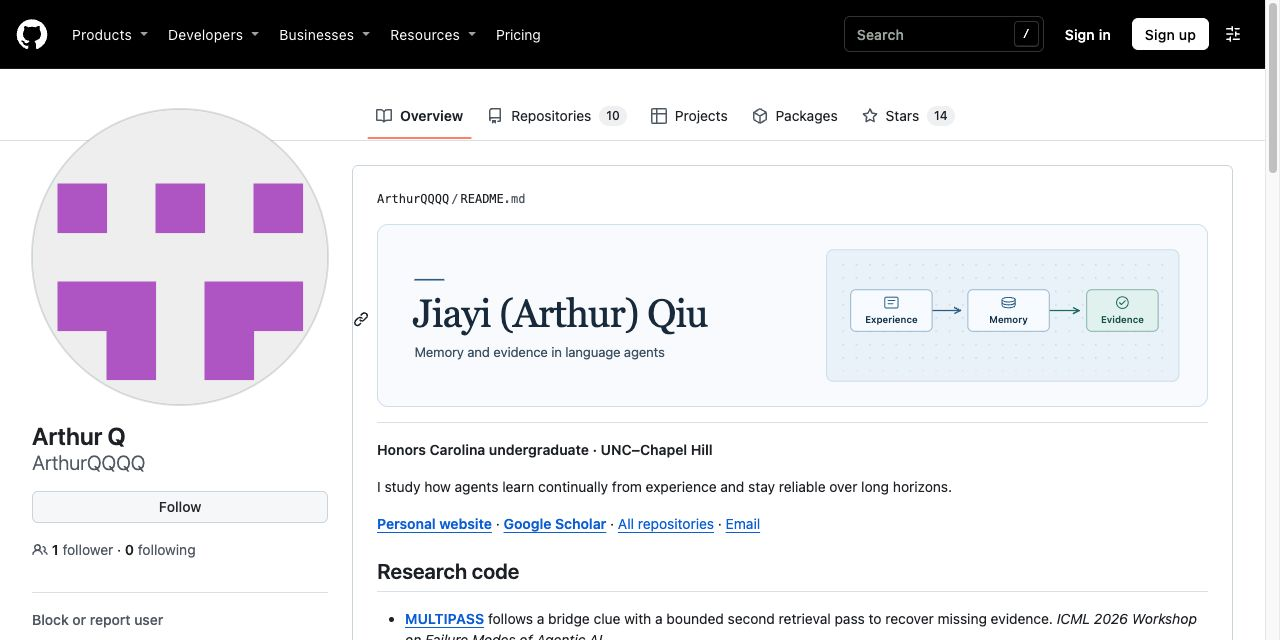
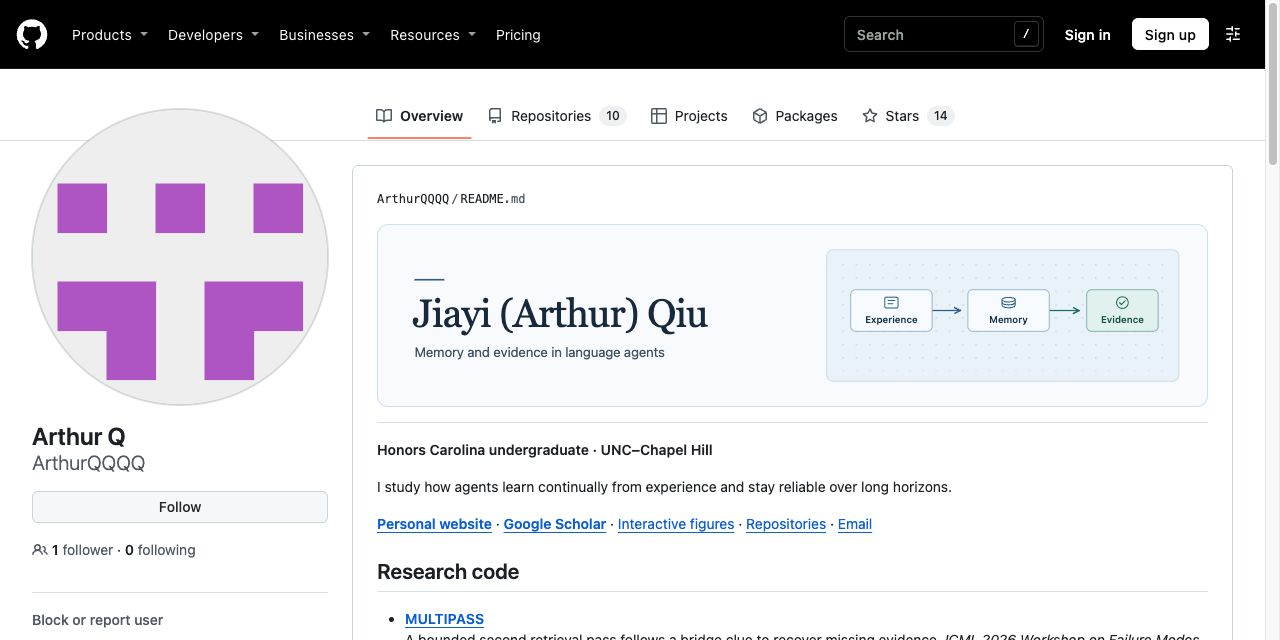
Add a zoomable viewer for the real profile previews

Changed region(s): [[0.3125, 0.9375, 0.9375, 1.0], [0.4688, 0.8125, 0.6875, 0.8438]]

diff --git a/styles.css b/styles.css
@@ -134,10 +134,13 @@ button { font: inherit; cursor: pointer; }
   border-radius: 12px;
   background: var(--surface);
   box-shadow: 0 2px 4px rgb(23 46 67 / .045);
-  transition: border-color .18s ease;
+  transition: border-color .18s ease, box-shadow .18s ease, transform .18s ease;
 }
 .profile-card--scholar { --card-head: #eaf4fb; }
-.profile-card:hover, .profile-card:focus-within { border-color: var(--strong-line); }
+.profile-card:hover, .profile-card:focus-within {
+  border-color: var(--strong-line);
+  box-shadow: 0 7px 22px rgb(23 46 67 / .09);
+}
 .profile-link { display: block; border-radius: inherit; color: var(--ink); text-decoration: none; }
 .profile-card-header {
   display: flex;
@@ -187,6 +190,68 @@ button { font: inherit; cursor: pointer; }
   object-fit: contain;
   object-position: top center;
 }
+.profile-card:has(.profile-tools:not([hidden])) .profile-preview { border-radius: 0; }
+.profile-tools {
+  display: flex;
+  justify-content: flex-end;
+  padding: 4px 12px;
+  border-top: 1px solid var(--line);
+}
+.profile-enlarge, .preview-control {
+  min-height: 36px;
+  padding: 4px 9px;
+  border: 1px solid transparent;
+  border-radius: 6px;
+  color: var(--blue);
+  background: transparent;
+  font-size: 14px;
+  font-weight: 580;
+}
+.profile-enlarge:hover, .preview-control:hover {
+  border-color: var(--strong-line);
+  background: var(--raised);
+}
+
+.preview-dialog {
+  width: min(68rem, calc(100% - 28px));
+  max-width: none;
+  max-height: calc(100% - 28px);
+  margin: auto;
+  padding: 0;
+  border: 1px solid var(--strong-line);
+  border-radius: 12px;
+  color: var(--ink);
+  background: var(--surface);
+  box-shadow: 0 16px 50px rgb(23 46 67 / .25);
+}
+.preview-dialog:not([open]) { display: none; }
+.preview-dialog[open] { display: grid; grid-template-rows: auto minmax(0, 1fr); }
+.preview-dialog::backdrop { background: rgb(17 37 55 / .55); }
+.preview-dialog-header {
+  display: flex;
+  flex-wrap: wrap;
+  align-items: center;
+  justify-content: space-between;
+  gap: 5px 12px;
+  padding: 9px clamp(10px, 2vw, 17px);
+  border-bottom: 1px solid var(--line);
+  background: var(--page);
+}
+.preview-dialog-header h2 { font: 400 clamp(19px, 3vw, 24px)/1.15 var(--font-display); }
+.preview-dialog-actions { display: flex; flex-wrap: wrap; align-items: center; gap: 3px; }
+.preview-dialog-actions form { margin: 0; }
+.preview-control { display: inline-flex; align-items: center; text-decoration: none; }
+.preview-control[aria-pressed="true"] { border-color: var(--strong-line); background: var(--raised); }
+.preview-dialog-media {
+  max-height: 73vh;
+  max-height: 73dvh;
+  overflow: auto;
+  overscroll-behavior: contain;
+  outline-offset: -3px;
+}
+.preview-dialog-media img { display: block; width: 100%; height: auto; }
+.preview-dialog-media.is-actual-size img { width: 1280px; max-width: none; }
+
 .publication-list, .projects-list { margin: 0; padding: 0; list-style: none; }
 
 .section-block { padding-block: 16px 30px; }
@@ -279,10 +344,18 @@ button { font: inherit; cursor: pointer; }
 
 @media (prefers-reduced-motion: no-preference) {
   .hero { animation: hero-enter .35s ease-out both; }
+  .preview-dialog[open] { animation: preview-enter .16s ease-out both; }
   @keyframes hero-enter {
     from { opacity: .55; transform: translateY(5px); }
     to { opacity: 1; transform: translateY(0); }
   }
+  @keyframes preview-enter {
+    from { opacity: 0; transform: translateY(4px) scale(.99); }
+    to { opacity: 1; transform: none; }
+  }
+}
+@media (hover: hover) and (prefers-reduced-motion: no-preference) {
+  .profile-card:hover { transform: translateY(-2px); }
 }
 @media (prefers-reduced-motion: reduce) {
   html { scroll-behavior: auto; }
@@ -307,10 +380,10 @@ button { font: inherit; cursor: pointer; }
   .main-nav a { font-size: 13px; }
 }
 @media (pointer: coarse) {
-  .profile-action, .publication-links a, .social-links a, .diagram-steps button { min-height: 44px; }
+  .profile-action, .publication-links a, .social-links a, .diagram-steps button, .profile-enlarge, .preview-control { min-height: 44px; }
 }
 @media print {
-  .site-header, .site-footer, .diagram-steps, .profile-preview { display: none; }
+  .site-header, .site-footer, .diagram-steps, .profile-preview, .profile-tools, .preview-dialog[open] { display: none; }
   .paper-diagram, .publication, .project-category { break-inside: avoid; }
   .container { width: 100%; }
 }

diff --git a/index.html b/index.html
@@ -7,8 +7,8 @@
   <meta name="description" content="Jiayi (Arthur) Qiu, an Honors Carolina undergraduate studying continual learning and reliable long-horizon agents.">
   <title>Jiayi (Arthur) Qiu</title>
   <link rel="canonical" href="https://arthurqqqq.github.io/">
-  <link rel="stylesheet" href="styles.css?v=public-page-previews">
-  <script src="app.js?v=research-figures" defer></script>
+  <link rel="stylesheet" href="styles.css?v=preview-viewer">
+  <script src="app.js?v=preview-viewer" defer></script>
 </head>
 <body id="home">
   <a class="skip-link" href="#main">Skip to content</a>
@@ -48,10 +48,14 @@
             <span class="profile-action" id="open-github-profile">View GitHub</span>
           </header>
           <div class="profile-preview">
-            <img src="github-page-preview.jpg" width="1280" height="640" decoding="async"
+            <img src="github-page-preview.jpg?v=theme-header" width="1280" height="640" decoding="async"
               alt="Public GitHub profile with the avatar, repository navigation, and research README">
           </div>
         </a>
+        <div class="profile-tools" hidden>
+          <button type="button" class="profile-enlarge" data-preview-open aria-haspopup="dialog"
+            aria-controls="profile-preview-dialog" aria-label="Enlarge preview of GitHub">Enlarge preview</button>
+        </div>
       </article>
       <article class="profile-card profile-card--scholar" aria-labelledby="scholar-title">
         <a class="profile-link" href="https://scholar.google.com/citations?user=WC9dYREAAAAJ&amp;hl=en" aria-labelledby="open-scholar-profile">
@@ -67,6 +71,10 @@
               alt="Public Google Scholar profile with the publication list and citation panel">
           </div>
         </a>
+        <div class="profile-tools" hidden>
+          <button type="button" class="profile-enlarge" data-preview-open aria-haspopup="dialog"
+            aria-controls="profile-preview-dialog" aria-label="Enlarge preview of Google Scholar">Enlarge preview</button>
+        </div>
       </article>
     </section>
 
@@ -218,6 +226,22 @@
       </div>
     </section>
   </main>
+
+  <dialog class="preview-dialog" id="profile-preview-dialog" aria-labelledby="preview-title">
+    <header class="preview-dialog-header">
+      <h2 id="preview-title">Profile preview</h2>
+      <div class="preview-dialog-actions">
+        <button type="button" class="preview-control" id="preview-zoom" aria-pressed="false">Actual size</button>
+        <a class="preview-control" id="preview-original">Open original</a>
+        <form method="dialog">
+          <button type="submit" class="preview-control" autofocus>Close</button>
+        </form>
+      </div>
+    </header>
+    <div class="preview-dialog-media" role="region" aria-label="Page screenshot" tabindex="-1">
+      <img id="preview-image" src="github-page-preview.jpg?v=theme-header" width="1280" height="640" alt="" loading="lazy">
+    </div>
+  </dialog>
 
   <footer class="site-footer">
     <div class="container footer-inner"><span>Jiayi (Arthur) Qiu</span><a href="#home">Back to top</a></div>

diff --git a/app.js b/app.js
@@ -28,3 +28,47 @@ for (const diagram of document.querySelectorAll('[data-paper-diagram]')) {
   updateFigure();
   controls.hidden = false;
 }
+
+const previewDialog = document.getElementById('profile-preview-dialog');
+
+if (typeof previewDialog?.showModal === 'function') {
+  const title = document.getElementById('preview-title');
+  const image = document.getElementById('preview-image');
+  const original = document.getElementById('preview-original');
+  const zoom = document.getElementById('preview-zoom');
+  const media = previewDialog.querySelector('.preview-dialog-media');
+  let opener = null;
+
+  function setActualSize(enabled) {
+    zoom.setAttribute('aria-pressed', String(enabled));
+    media.classList.toggle('is-actual-size', enabled);
+    media.tabIndex = enabled ? 0 : -1;
+    media.scrollTop = 0;
+    media.scrollLeft = 0;
+  }
+
+  for (const button of document.querySelectorAll('[data-preview-open]')) {
+    const card = button.closest('.profile-card');
+    const link = card.querySelector('.profile-link');
+    const thumbnail = card.querySelector('.profile-preview img');
+
+    button.addEventListener('click', () => {
+      opener = button;
+      title.textContent = card.querySelector('h2').textContent + ' preview';
+      image.alt = thumbnail.alt;
+      image.src = thumbnail.currentSrc || thumbnail.src;
+      original.href = link.href;
+      setActualSize(false);
+      previewDialog.showModal();
+    });
+
+    button.closest('.profile-tools').hidden = false;
+  }
+
+  zoom.addEventListener('click', () => setActualSize(zoom.getAttribute('aria-pressed') !== 'true'));
+  original.addEventListener('click', () => previewDialog.close());
+  previewDialog.addEventListener('close', () => {
+    opener?.focus({ preventScroll: true });
+    opener = null;
+  });
+}
